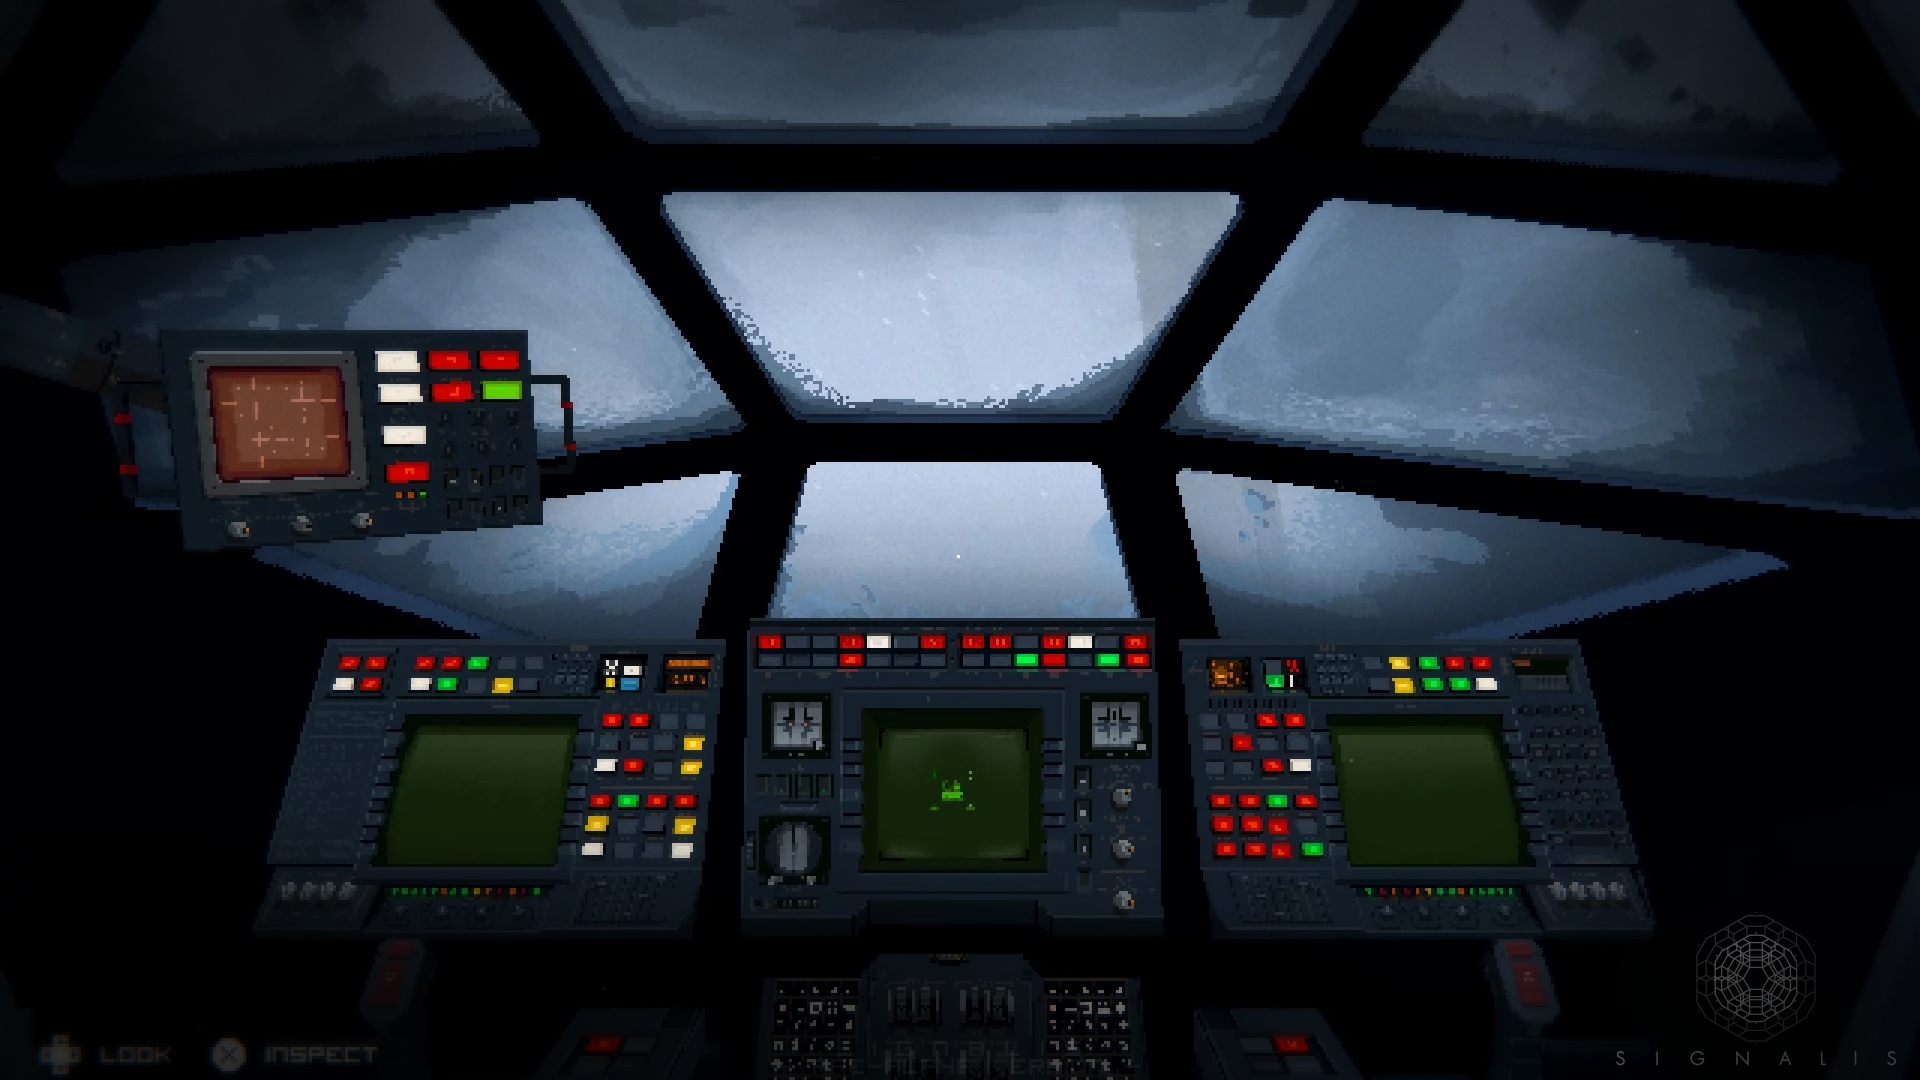
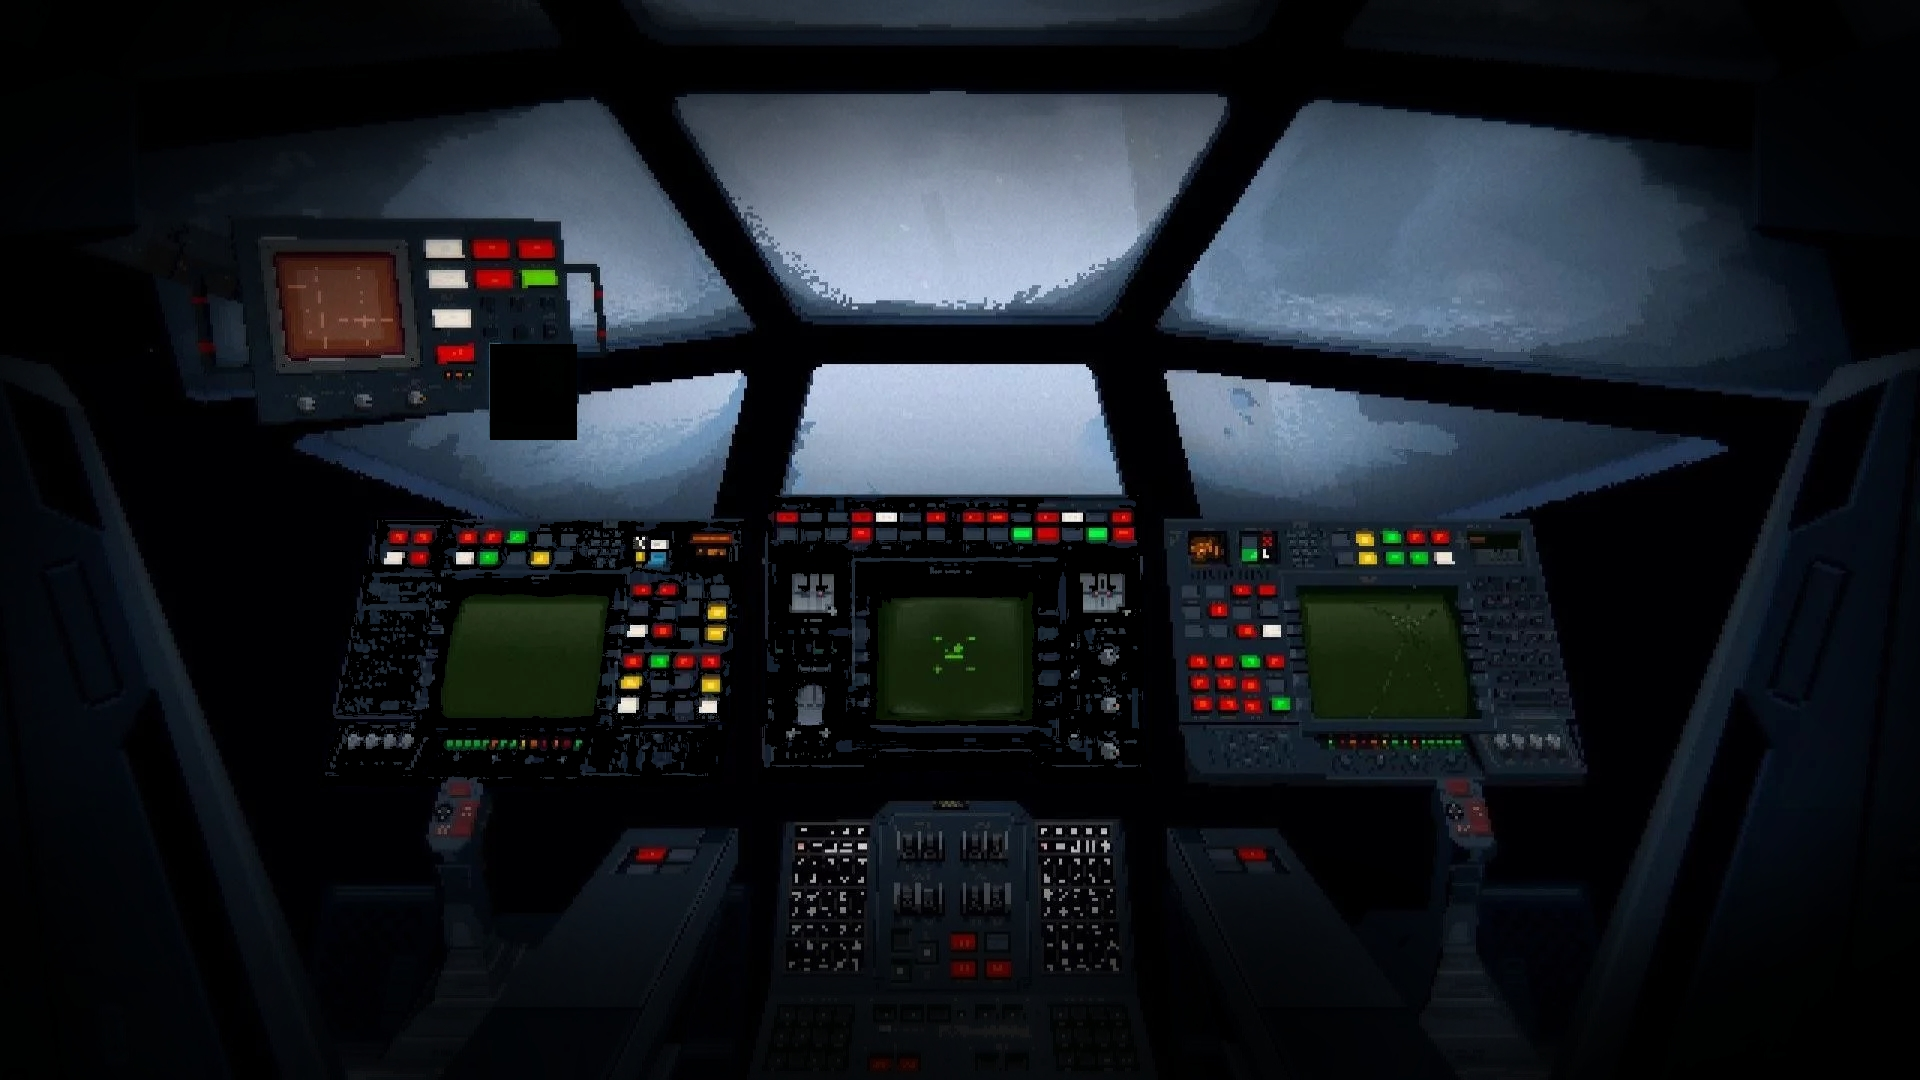
изменены картинки для pilotCabin, добавлена модель Item для элементов страницы

diff --git a/game proj 27 05 25/Models/Item.cs b/game proj 27 05 25/Models/Item.cs
@@ -1,0 +1,19 @@
+namespace game_proj_27_05_25.Models
+{
+    public class Item
+    {
+        public int Id { get; set; }
+        public string Name { get; set; } = "";
+        public string ImagePath { get; set; } = "";
+        public int X { get; set; }
+        public int Y { get; set; }
+        public InteractionType Interaction { get; set; } 
+        public bool IsInteracted { get; set; }
+    }
+
+    public enum InteractionType
+    {
+        SimpleAction, //просто кликабельные объекты
+        PickupDialog  //объекты с диалоговым окном, которые можно поднять
+    }
+}

diff --git a/game proj 27 05 25/Controllers/PilotCabinController.cs b/game proj 27 05 25/Controllers/PilotCabinController.cs
@@ -1,6 +1,17 @@
-namespace game_proj_27_05_25.Controllers
+using Microsoft.AspNetCore.Mvc;
+using game_proj_27_05_25.Models;
+
+namespace game_proj_27_05_25.Controllers
 {
-    public class PilotCabinController
+    public class PilotCabinController : Controller
     {
+        private const string SessionKey = "PilotCabinItems";
+        [Route("/PilotCabin")]
+        [HttpGet]
+        public IActionResult PilotCabin()
+        {
+            
+            return View();
+        }
     }
 }

diff --git a/game proj 27 05 25/Program.cs b/game proj 27 05 25/Program.cs
@@ -2,6 +2,7 @@ var builder = WebApplication.CreateBuilder(args);
 builder.Services.AddControllersWithViews();
 var app = builder.Build();
 
+app.UseStaticFiles();
 app.MapControllers();
 
 app.Run();
